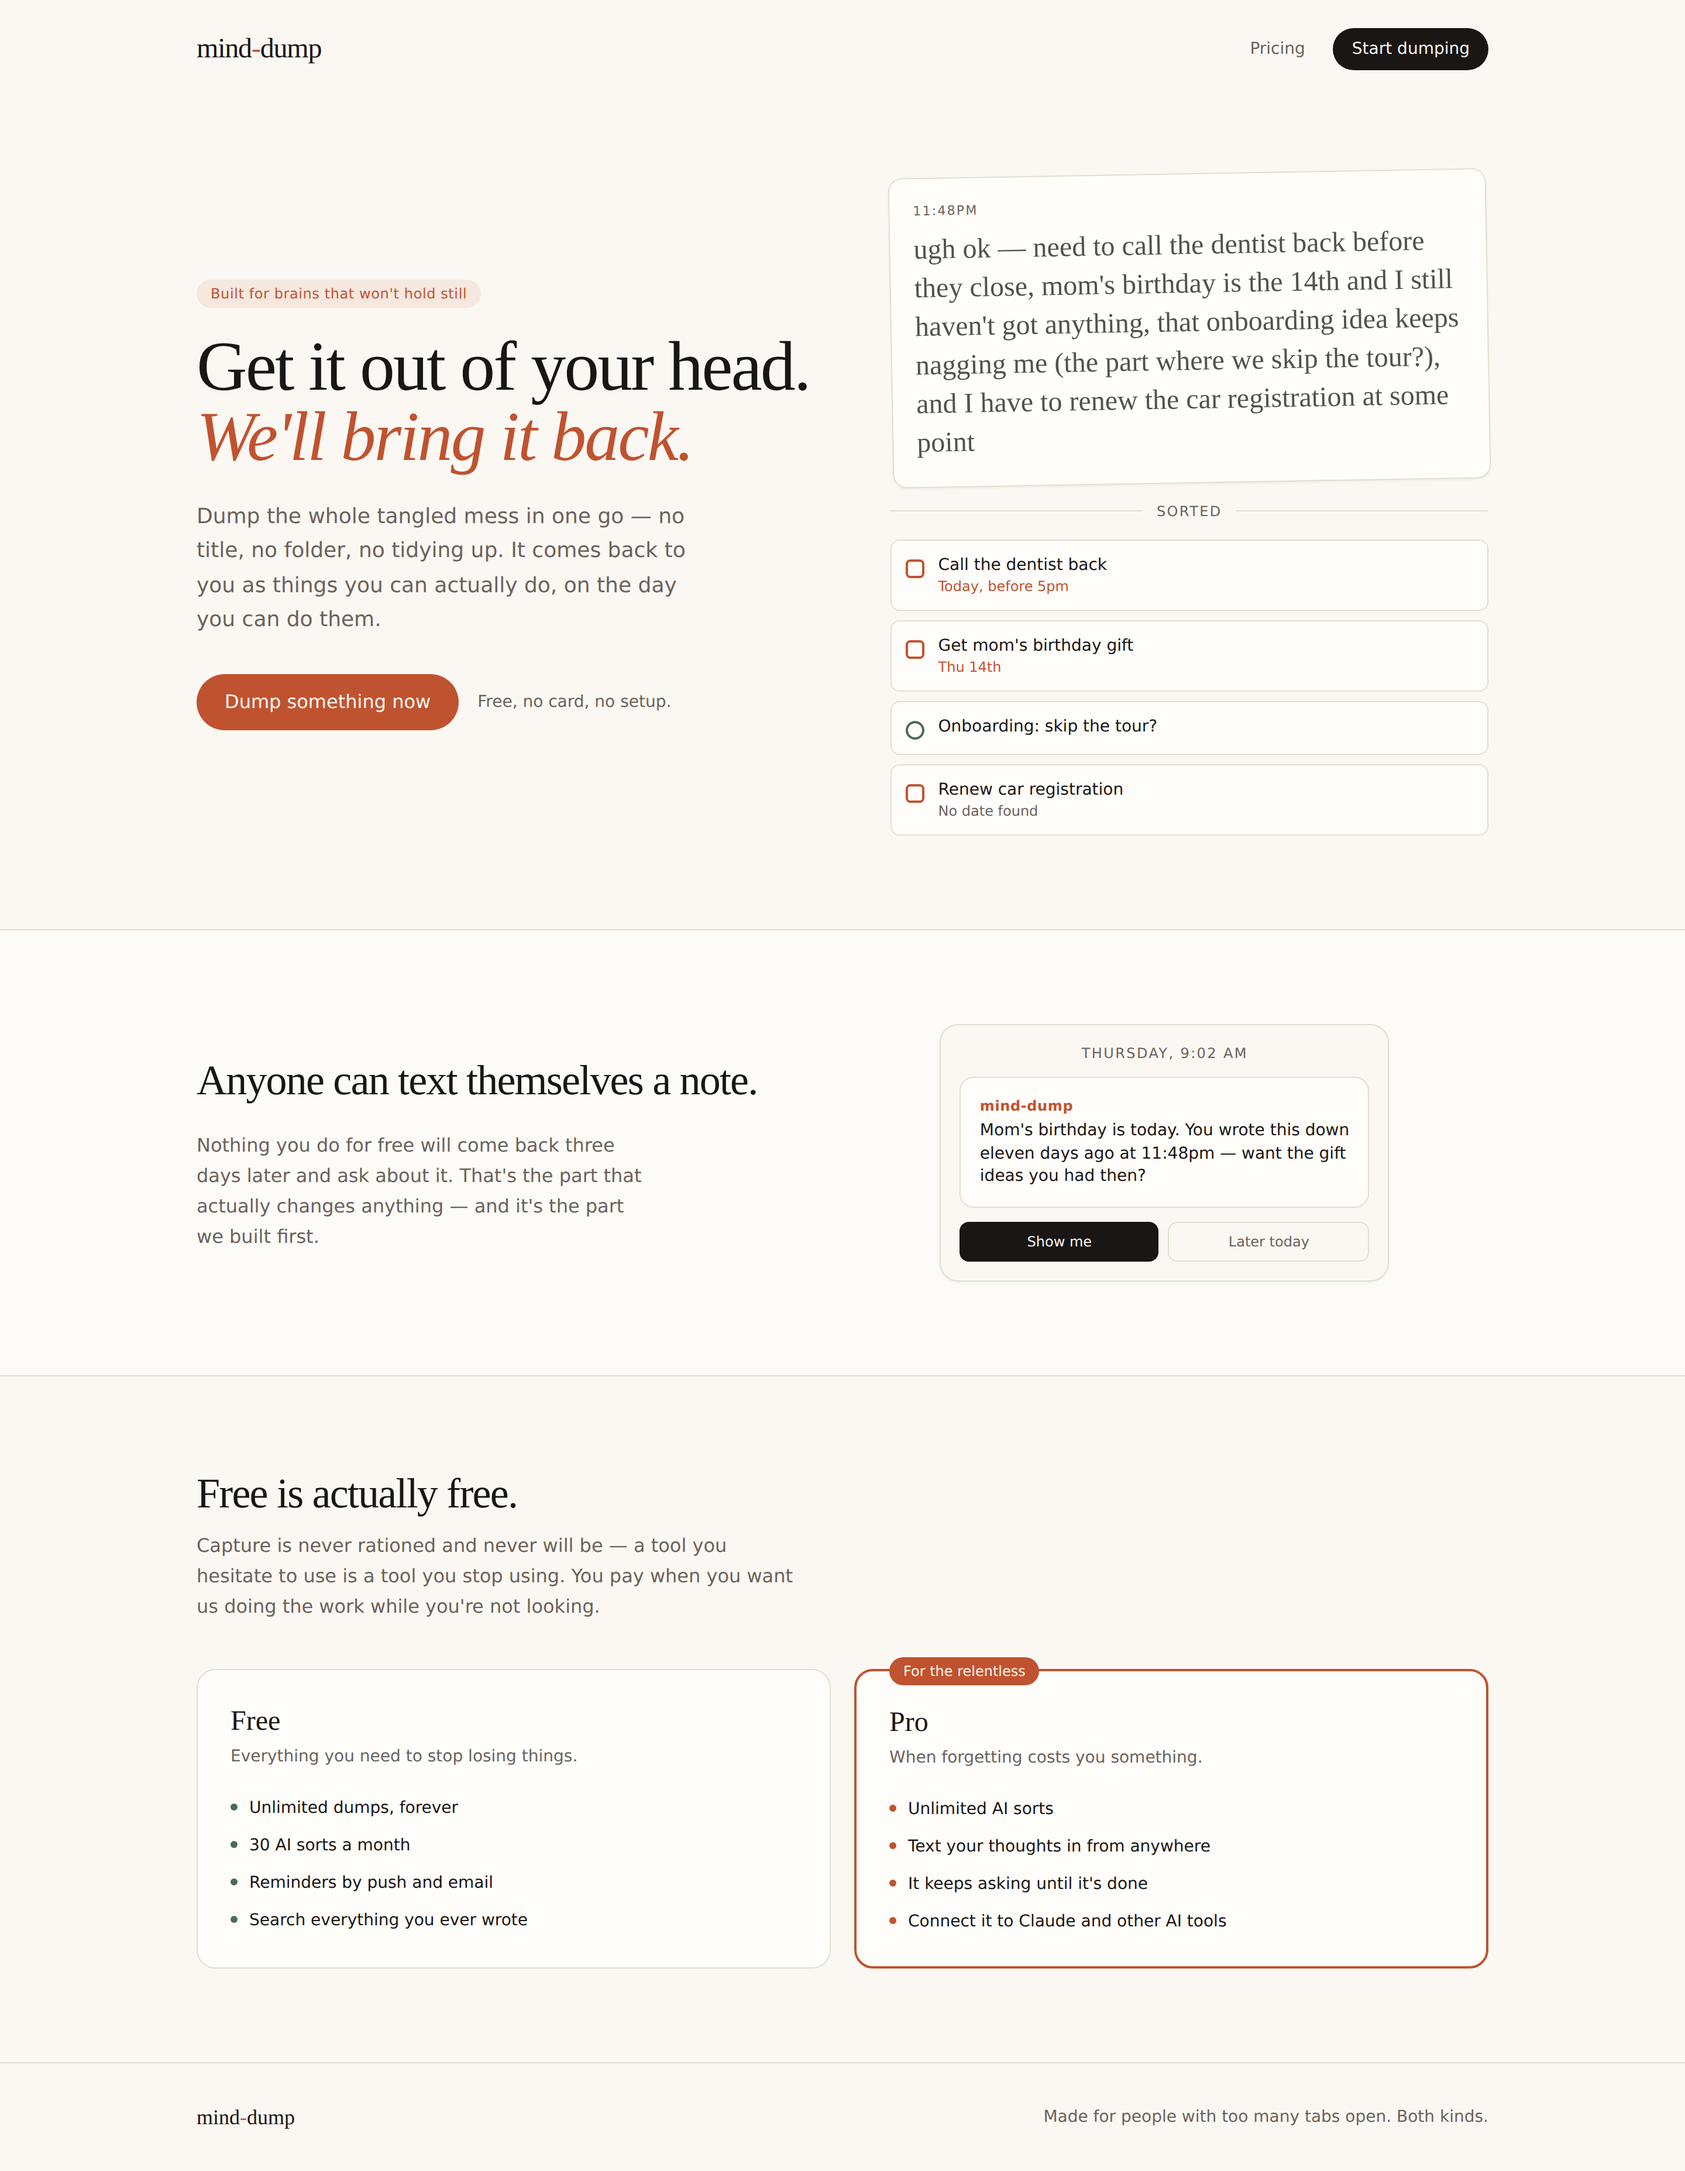
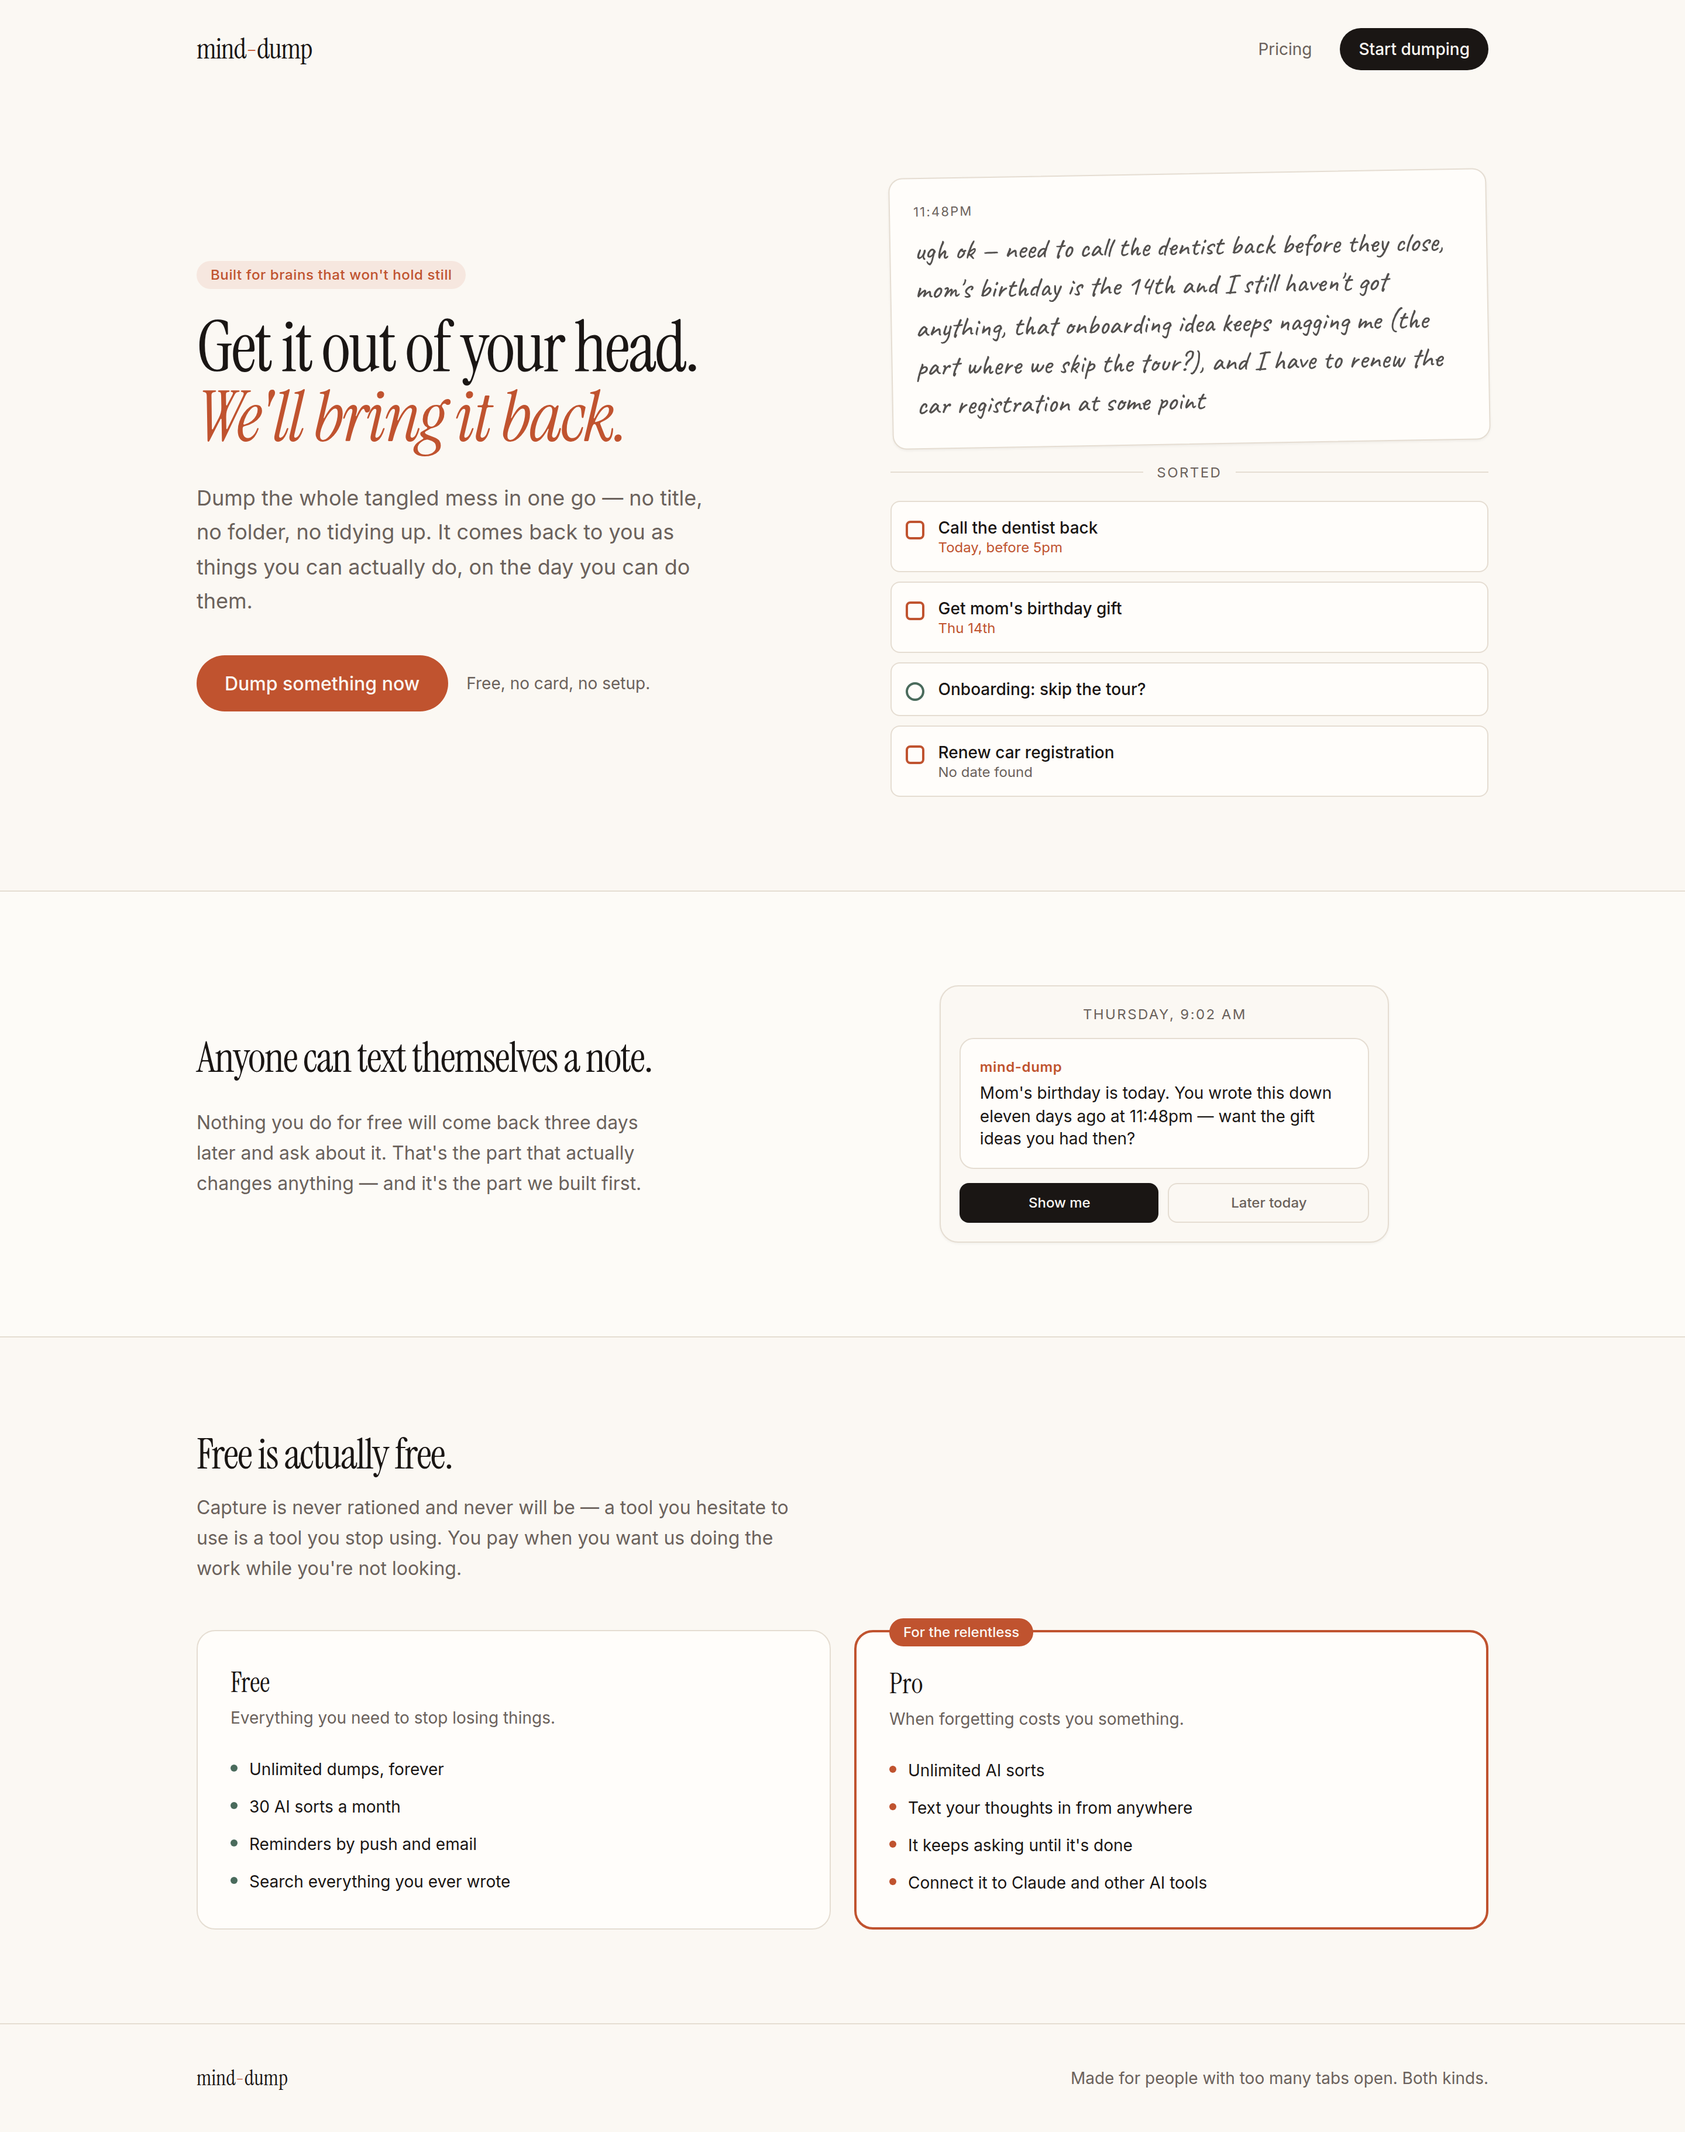
Darken the accent to pass WCAG AA
The terracotta was #C0532F. Measured against the surfaces it actually sits on:

  paper on clay (the primary CTA button)  4.39  FAIL
  clay on claySoft (the eyebrow badge)    3.85  FAIL
  clay on paper                           4.39  FAIL
  clay on card (12px date labels)          4.58  pass

The CTA button was the worst of these and the most important element on the
page — white-ish text on terracotta at 4.39:1, below the 4.5:1 AA threshold for
normal text.

#A8501A is the lightest shade that clears AA on every surface it is used
against, so the warmth survives:

  paper on clay   5.18
  clay on claySoft 4.55
  clay on paper    5.18
  clay on card     5.40

Picked by searching for maximum luminance subject to all four pairings passing,
rather than by darkening until it looked safe — a darker maroon passed with more
headroom but lost the terracotta entirely.

Screenshots in docs/screenshots/landing/ refreshed against the new value.

Refs #8

diff --git a/apps/web/tailwind.config.js b/apps/web/tailwind.config.js
@@ -9,7 +9,7 @@ export default {
         ink: '#1A1614',
         muted: '#6B625C',
         rule: '#E5DDD2',
-        clay: '#C0532F',
+        clay: '#A8501A',
         claySoft: '#F6E7DF',
         sage: '#4A6B5C',
       },
